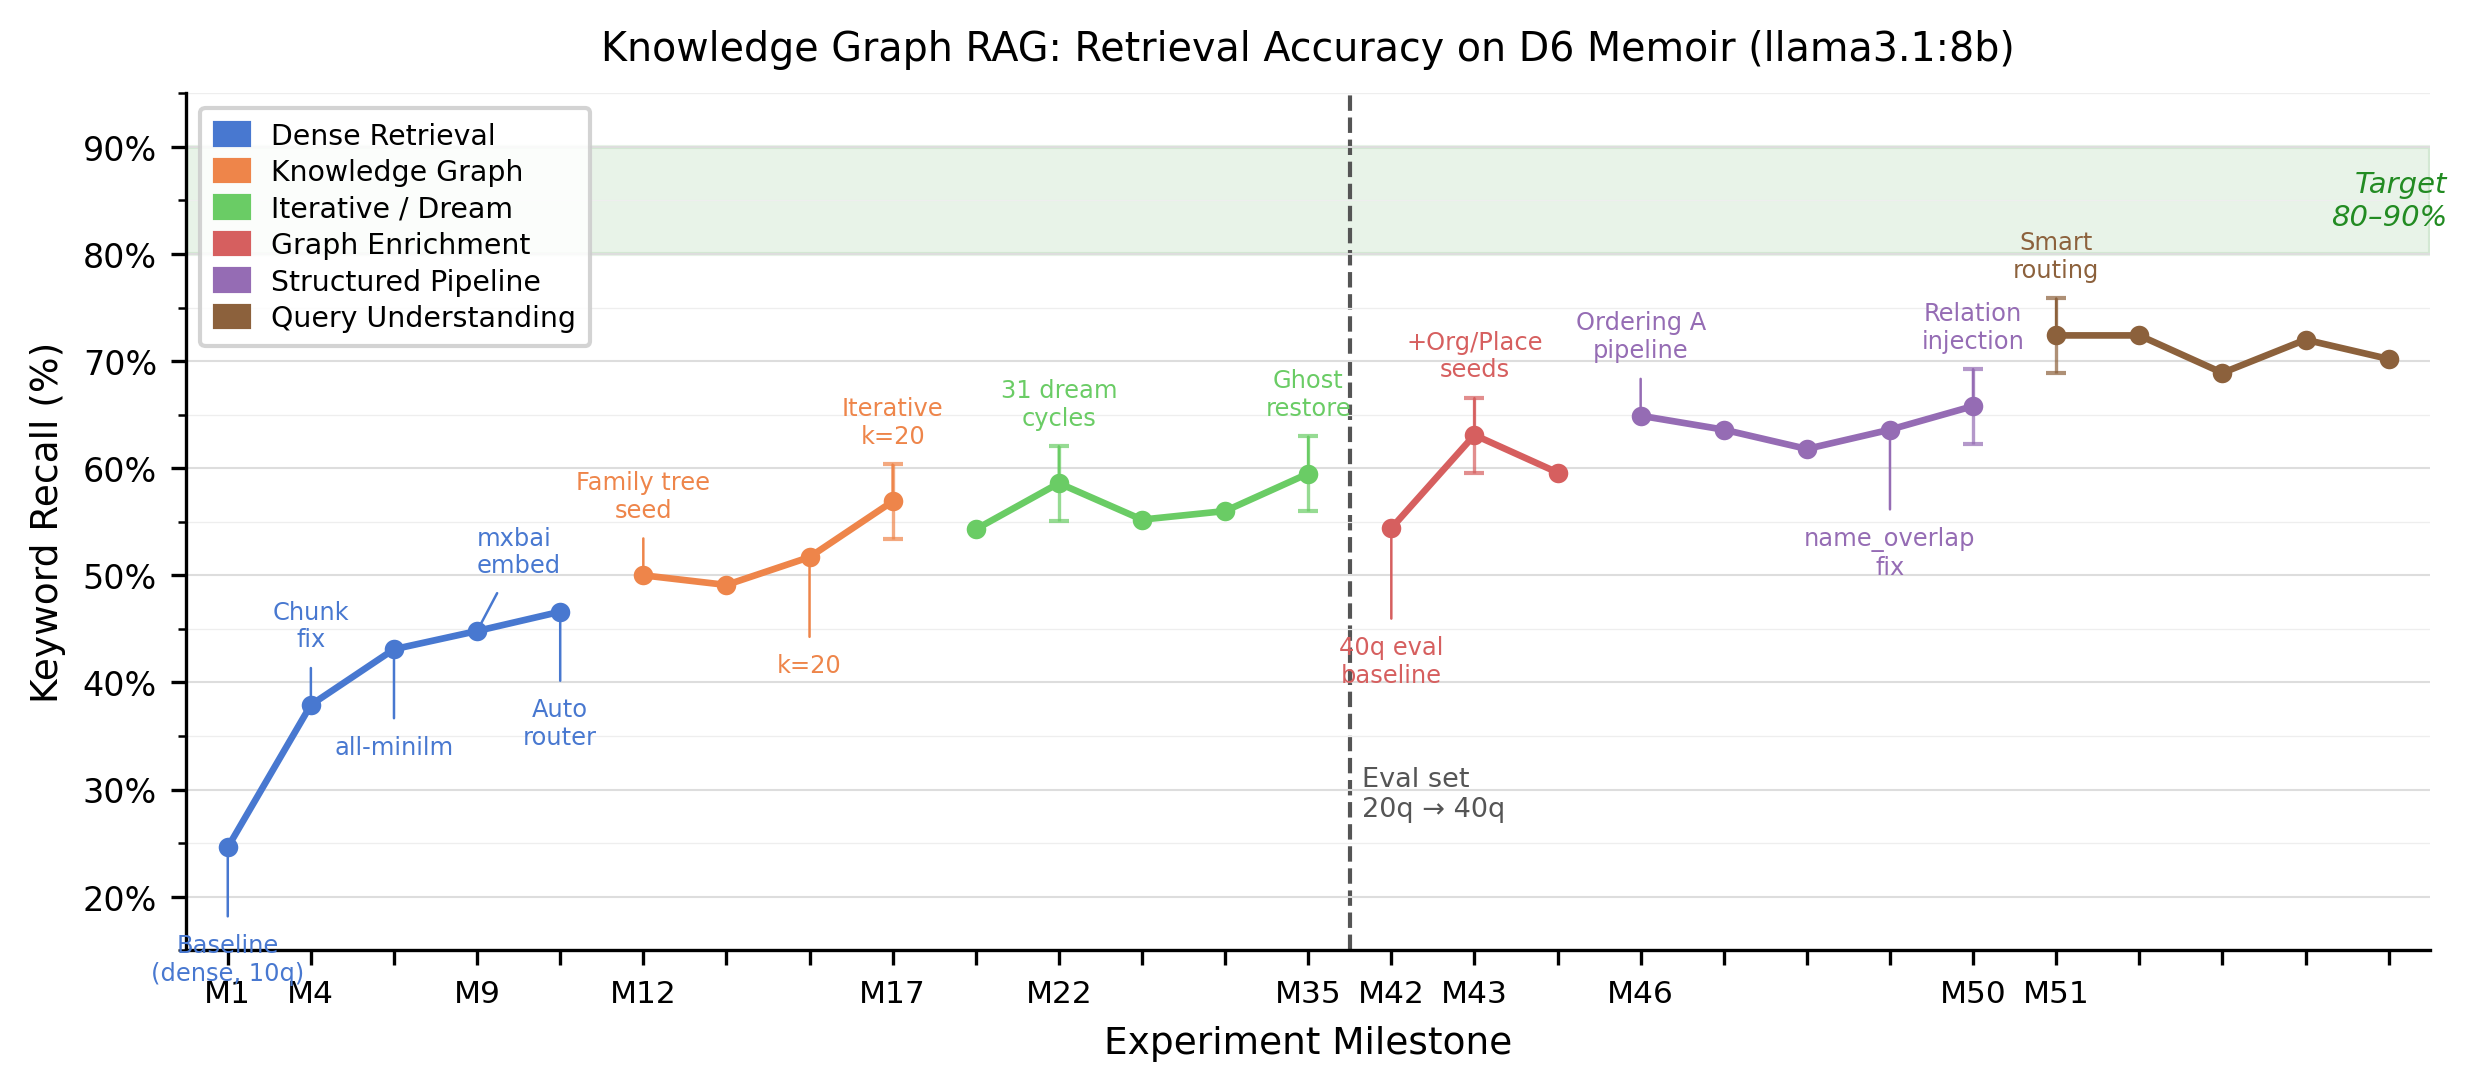
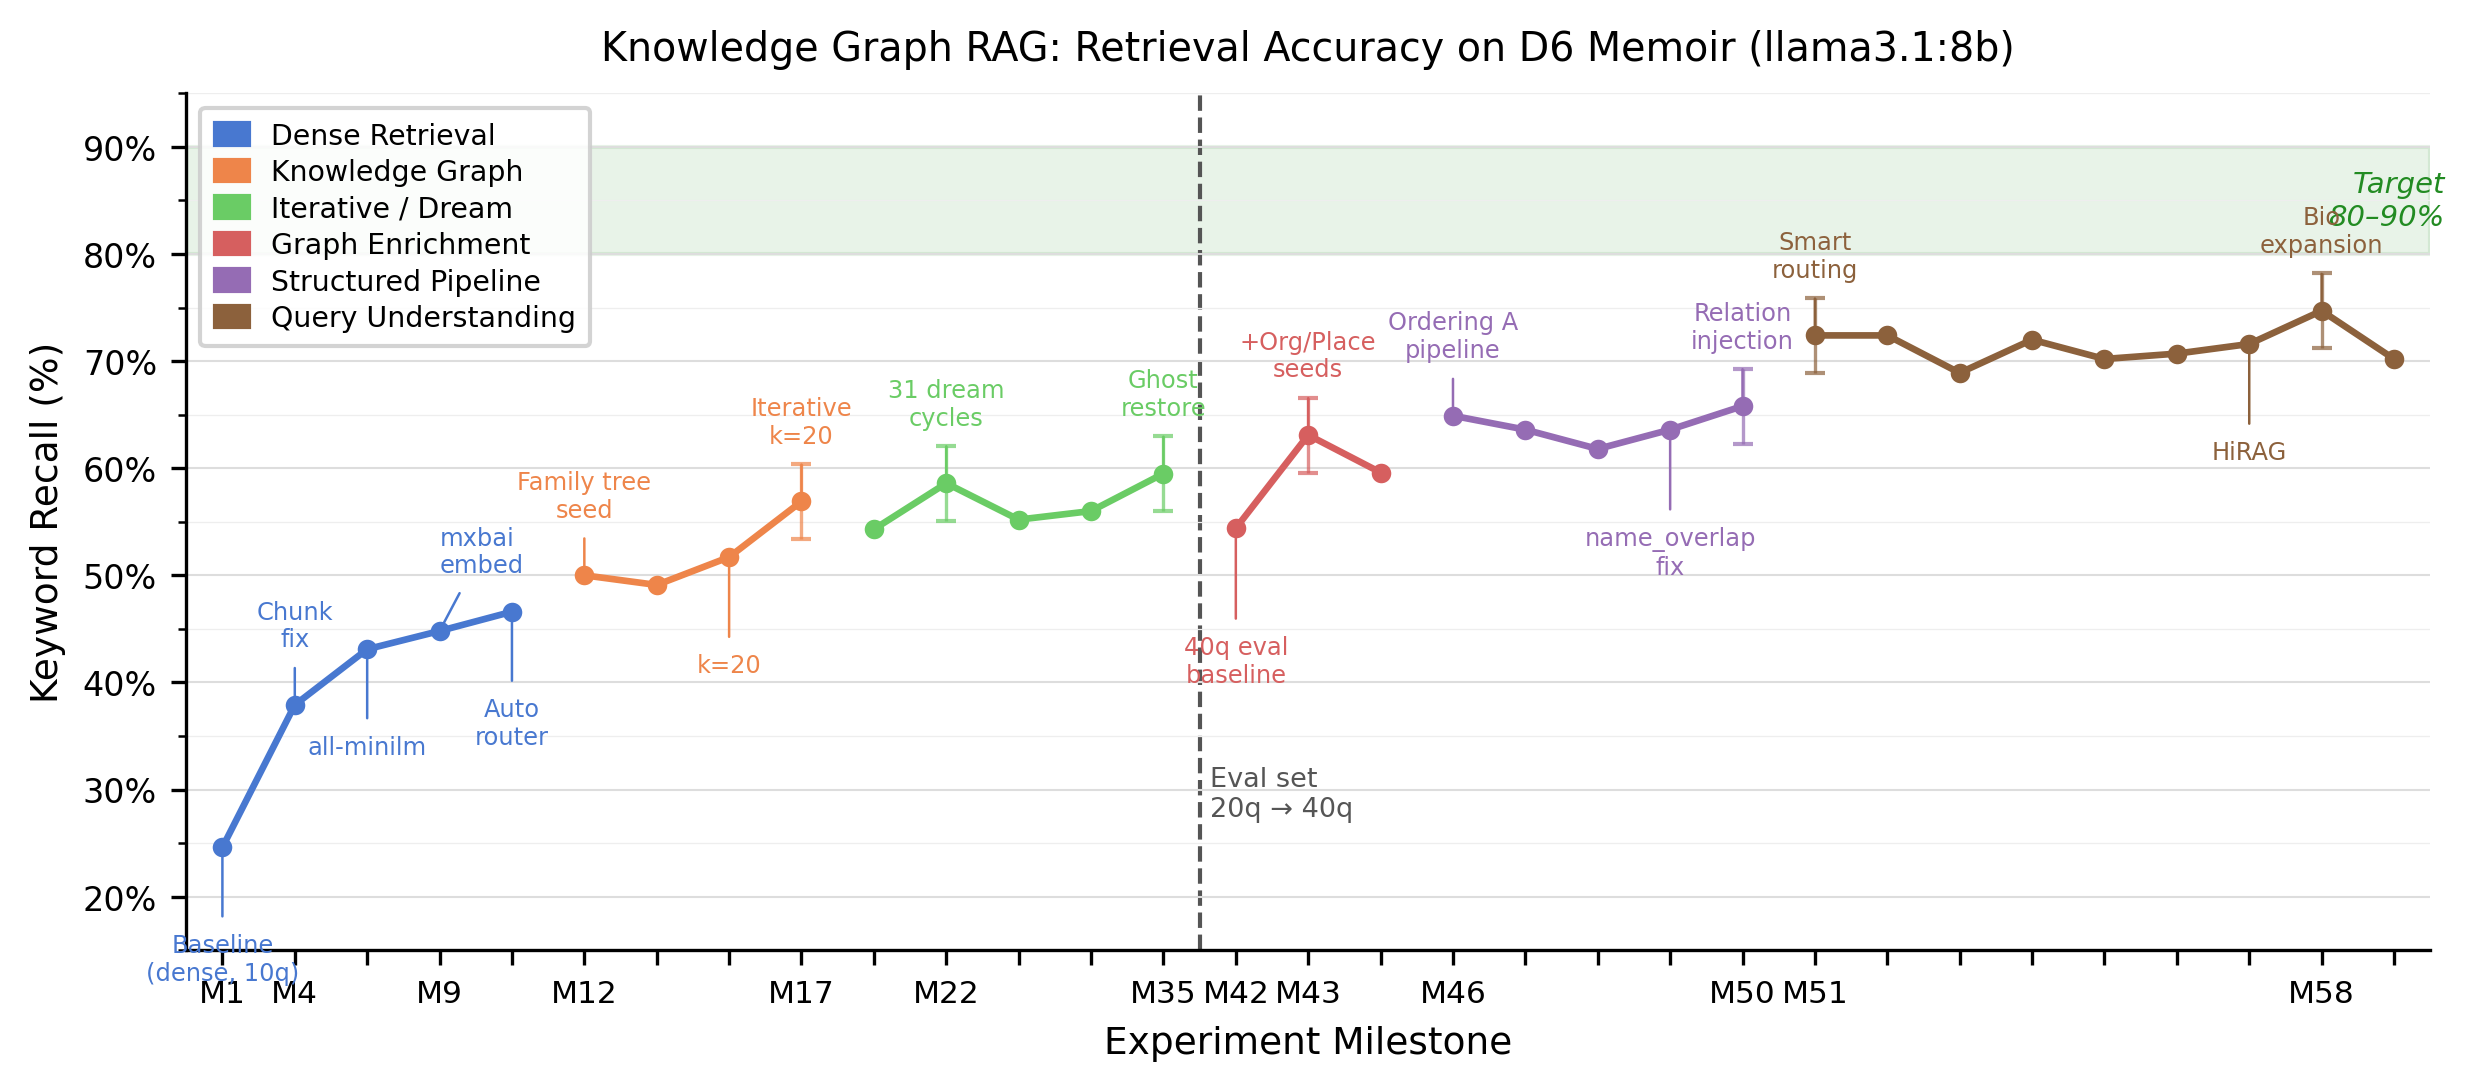
feat(kwaai-knowledge): biographical expansion 168/225 = 74.7% new best (M58, v0.4.103)
r25: --mode smart --summary-expansion --biographical-expansion → 168/225 (74.7%).
- q09 (grandfather) 3→7/9 (+4): biographical expansion fixes LLM one-liner problem
- q37 (Gandhi) 4→7/7 (+3): same mechanism
- Net +7pp over previous session's r24 (161/225)
r26 post-dream (5 cycles, health 36.6%→41.6%): 158/225 (70.2%) — dream regression at
  low health. q09/q37 held; q14/q15/q23/q32 degraded (entity description noise).
Updated progress chart with M56–M59 data points. Bump to v0.4.103.

diff --git a/projects/kwaai-knowledge/d6_progress_chart.py b/projects/kwaai-knowledge/d6_progress_chart.py
@@ -68,6 +68,10 @@ MILESTONES = [
     ("M53", 68.9, 5, None),
     ("M54", 72.0, 5, None),
     ("M55", 70.2, 5, None),
+    ("M56", 70.7, 5, None),
+    ("M57", 71.6, 5, "HiRAG"),
+    ("M58", 74.7, 5, "Bio\nexpansion"),
+    ("M59", 70.2, 5, None),
 ]
 
 # Eval set change: from 20q/116kw to 40q/225kw between M35 and M42
@@ -77,7 +81,7 @@ EVAL_CHANGE_X = 14.5  # midpoint between M35 (x=13) and M42 (x=14)
 NOISE = 3.5
 
 # Representative points that get error bars (to avoid clutter)
-ERROR_BAR_LABELS = {"M17", "M22", "M35", "M43", "M50", "M51"}
+ERROR_BAR_LABELS = {"M17", "M22", "M35", "M43", "M50", "M51", "M58"}
 
 # ---------------------------------------------------------------------------
 # Build arrays
@@ -149,6 +153,8 @@ ANNO_POS = {
     "M49": (-9,  "center"),
     "M50": (+5,  "center"),
     "M51": (+5,  "center"),
+    "M57": (-9,  "center"),
+    "M58": (+5,  "center"),
 }
 
 for i, (label, recall, phase_idx, ann) in enumerate(MILESTONES):
@@ -174,7 +180,7 @@ ax.set_xlabel("Experiment Milestone", fontsize=9)
 # X-tick labels: major milestones only
 tick_labels = [m[0] if m[0] in {
     "M1", "M4", "M9", "M12", "M17", "M22", "M35",
-    "M42", "M43", "M46", "M50", "M51"
+    "M42", "M43", "M46", "M50", "M51", "M58"
 } else "" for m in MILESTONES]
 ax.set_xticks(xs)
 ax.set_xticklabels(tick_labels, fontsize=7.5, rotation=0)

diff --git a/projects/kwaai-knowledge/d6_accuracy_progress.md b/projects/kwaai-knowledge/d6_accuracy_progress.md
@@ -103,6 +103,8 @@
 | 55 | v0.4.102 | M54 + **q09 retrieval query rewrite**: "Who was the author's grandfather?" → "Who was Haji Joosub Maulvi Hamid Gool?" for vector search. LLM still receives original question. | llama3.1:8b | **158/225** (70.2%) r22 | — | q09 still 3/9. Root cause: LLM answers "who was" identity questions with a one-liner even with full entity description in context. Not a retrieval problem. |
 | 56 | v0.4.102 | M55 + **HiRAG**: UTF-8 panic fixed (`is_char_boundary` truncation); 113 window summary nodes generated (window=10, 1129 chunks, ~15 min); `--summary-expansion` flag in eval (Round 2.5 cosine-search over summary embeddings, threshold=0.40). | llama3.1:8b | **159/225** (70.7%) r23 | — | +1 vs r22. q06 Buitencingle **2→6/8** (+4 in r23, but 3/8 in r24 — LLM noise). HiRAG consistent signal: q25/q29/q37/q39 each +1 in both HiRAG runs. q09 still 3/9. 2-run HiRAG avg: 160/225 (+2 vs r22). |
 | 57 | v0.4.102 | M56 run 2 — HiRAG confirmation (r24). | llama3.1:8b | **161/225** (71.6%) r24 | — | +3 vs r22. q05 8/8 (+1), q19 6/6 (+2). Consistent gains: q25/q29/q37/q39. q06 reverted to 3/8 (r23 was noise). q09 still 3/9. Graph health 36.6% → dream cycles needed overnight. |
+| 58 | v0.4.103 | M57 + **biographical expansion** (`--biographical-expansion`): "who was/is" queries get detailed-answer instruction appended; enumeration queries ("organisations") get "list EVERY organisation" instruction. `--mode smart --summary-expansion --biographical-expansion`. | llama3.1:8b | **168/225** (74.7%) r25 ← **NEW ALL-TIME BEST** | — | +7 vs r24. q09 (grandfather) 3→7/9 **+4** — biographical expansion fixed structural LLM one-liner problem. q37 (Gandhi) 4→7/7 **+3**. q10 4→6/7 +2, q25 2→4/5 +2, q06 2→4/8 +2. First time exceeding 74%. **+2.3pp over M51 (163/225) previous best.** |
+| 59 | v0.4.103 | M58 config + **5 dream cycles** (`--no-relations --dedup-threshold 0.99 --max-completions 100 --workers 4`). Graph health 36.6% → 41.6%. Eval r26 post-dream. | llama3.1:8b | **158/225** (70.2%) r26 | — | −10 pts regression vs r25. q23 (siblings) −4, q32 (Cissie/JMH relation) −3, q14 (D6 location) −2, q15 (forced removals) −2. Biographical expansion questions q09/q37 held. Dream at 41.6% health introduced entity description noise — changed which entities inject for q14/q15/q23/q32. More dream cycles needed to recover (M22 needed 31 cycles from ~51.5% health to reach 78.1%). |
 
 > Note: keyword hit rate varies ±4pp between runs of the same config due to LLM sampling. Milestones 12–13 are separate runs of the same stack; consider 48–50% the range for the current best config.
 